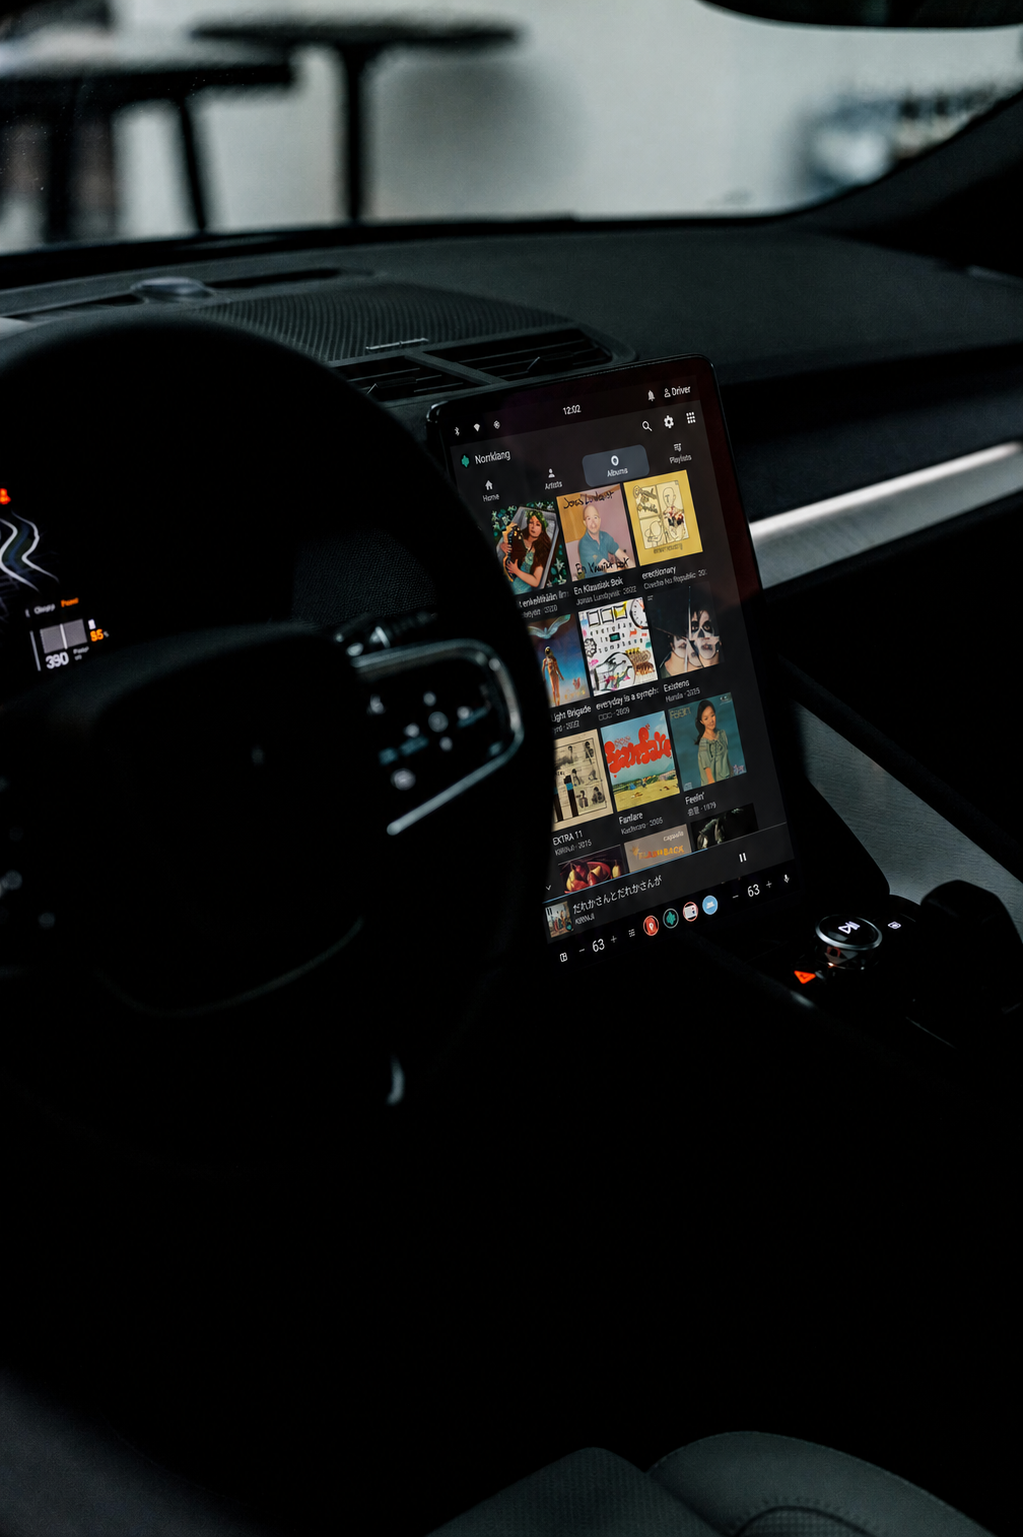
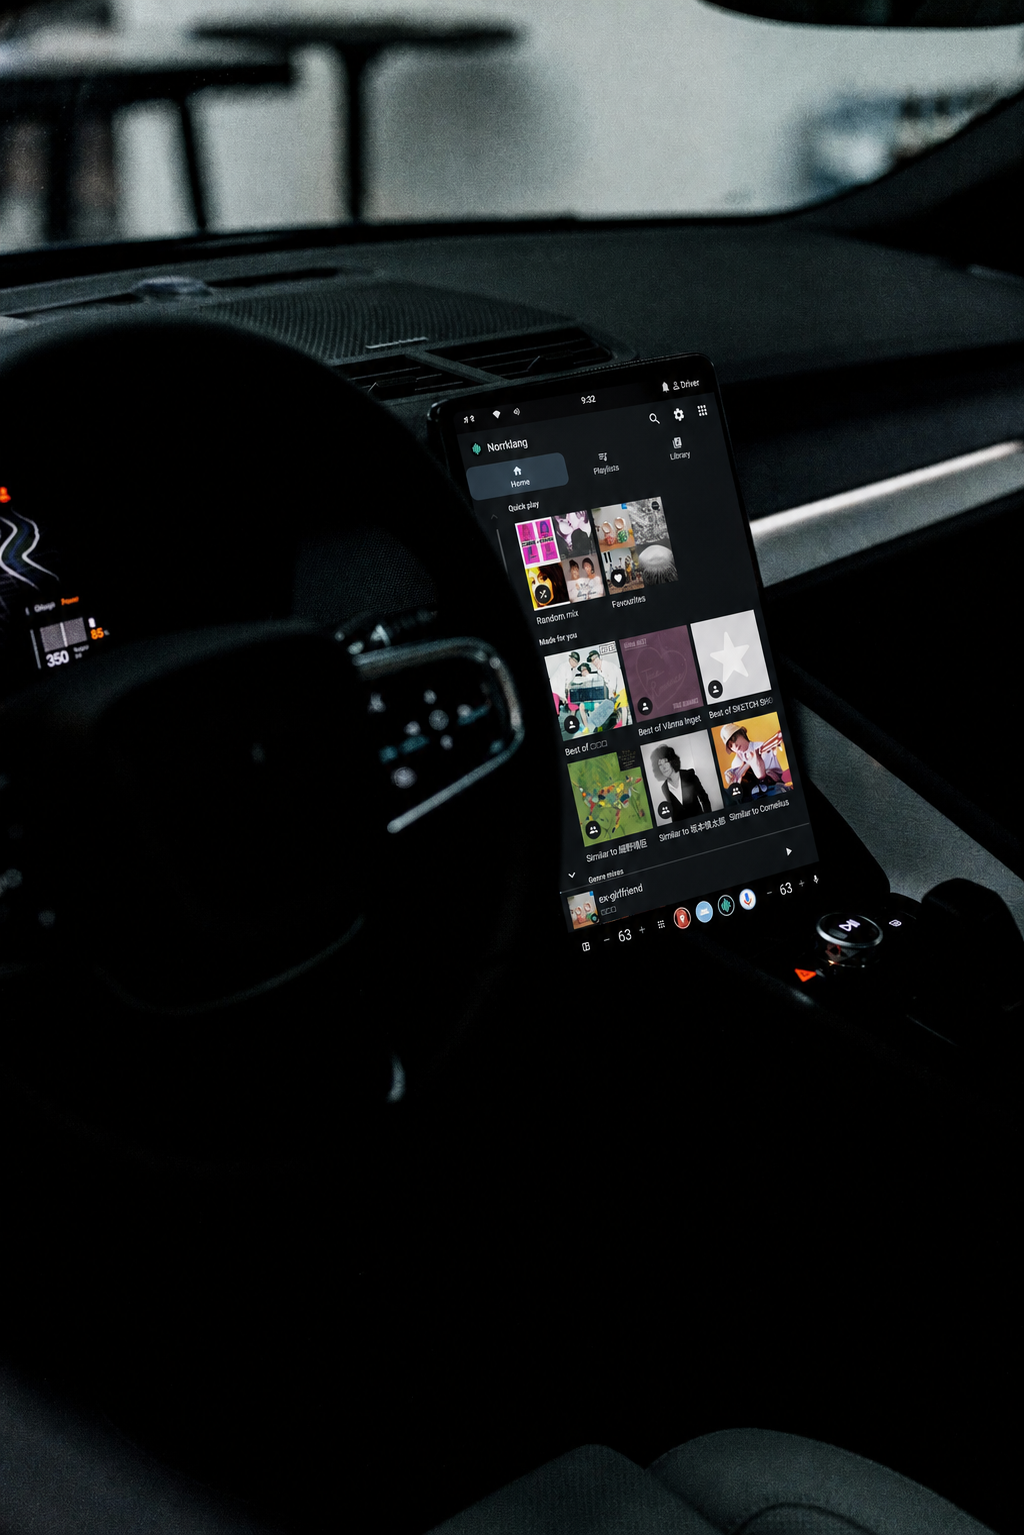
feat: added website info about plex support and updated privacy policy

diff --git a/www/src/config.ts b/www/src/config.ts
@@ -4,9 +4,9 @@ export const SITE_NAME = 'Norrklang';
 export const SITE_URL = 'https://norrklang.app';
 export const TAGLINE = 'Your Navidrome library, in your car';
 export const DESCRIPTION =
-  'Norrklang is a music player for Navidrome and Subsonic-compatible servers, ' +
-  'made for cars running Android Automotive OS. It installs in the car itself ' +
-  'and plays your own music, straight from your server.';
+  'Norrklang is a music player for Navidrome and Subsonic-compatible servers ' +
+  'and for Plex, made for cars running Android Automotive OS. It installs in ' +
+  'the car itself and plays your own music, straight from your server.';
 
 export const APPLICATION_ID = 'studio.koeda.norrklang';
 

diff --git a/www/src/pages/privacy.md b/www/src/pages/privacy.md
@@ -2,11 +2,12 @@
 layout: ../layouts/Legal.astro
 title: Privacy Policy
 description: What Norrklang stores, what it sends, and to whom. No analytics, no third parties.
-effectiveDate: 2026-08-06
+effectiveDate: 2026-08-21
 ---
 
 Norrklang is a music player for [Navidrome](https://www.navidrome.org/) and
-Subsonic-compatible servers, published by Koeda Studio for Android Automotive
+Subsonic-compatible servers and for [Plex](https://www.plex.tv/) Media Server,
+published by Koeda Studio for Android Automotive
 OS. It is a client for a server **you** choose and control. This policy
 describes what the app itself does with data, plus how this website is
 hosted.
@@ -15,12 +16,14 @@ hosted.
 
 All data the app stores stays **on your device**:
 
-- **Server connection details** — the server address, your username, and a
-  derived authentication token (never your password; the password is used once
-  at sign-in to compute the token and is not retained). The token is encrypted
-  with a key that never leaves the device's Android Keystore, so the stored
-  value is useless anywhere else. The app also opts out of Android's automatic
-  backup, so none of its data is copied into cloud backups.
+- **Server connection details** — the server address, your username, and an
+  authentication token. For Navidrome/Subsonic the token is derived from your
+  password once at sign-in (the password itself is never retained); for Plex
+  it is the token plex.tv issues when you link the device (the app never sees
+  your Plex password at all). Either token is encrypted with a key that never
+  leaves the device's Android Keystore, so the stored value is useless
+  anywhere else. The app also opts out of Android's automatic backup, so none
+  of its data is copied into cloud backups.
 - **Playback state** — the last played track and position, so playback can
   resume after a restart.
 - **Your settings** — whether scrobbling is on, any artists or playlists you
@@ -29,18 +32,42 @@ All data the app stores stays **on your device**:
   per account. Listings are held in memory only and disappear when the app
   stops; cached cover art is stored in the app's cache area and deleted when a
   different account signs in.
+- **Diagnostics** — a short log of recent errors and the last crash, shown on
+  the in-car **Settings → Diagnostics** screen to help you report problems.
+  Entries are sanitized before they are written: server addresses and URL
+  query strings — which can carry authentication tokens — are stripped. The
+  log never leaves the device on its own (see below for the report flow).
 
 Signing out deletes the stored connection details, your settings and the
-playback state. Uninstalling the app deletes everything.
+playback state. One exception: the random device identifier the app mints for
+Plex is kept, so that linking again does not register a duplicate device on
+your Plex account — it identifies the install, not you, and it leaves with the
+app. Uninstalling the app deletes everything.
 
 ## What the app sends, and to whom
 
-The app communicates **only with the server address you configure**:
+The app communicates **with the server you configure** — and with nothing
+else, apart from the plex.tv exception below:
 
 - browsing and search queries, to show your library
 - audio streaming requests, to play music
 - playback reports ("scrobbles"), so your server can track play counts
 - favourite updates you trigger (e.g. the heart button in the car)
+
+If you sign in with Plex, the app also talks to **plex.tv**, Plex's own
+service: at sign-in to link the device, and to list your servers and their
+connection addresses. Your music library, streaming and play reports still go
+only to your own Plex Media Server. Plex's handling of that service traffic is
+governed by [Plex's privacy policy](https://www.plex.tv/about/privacy-legal/),
+not this one.
+
+The **Diagnostics** screen can show a QR code that lets you share the
+sanitized log when reporting a problem. The car uploads nothing: the log is
+encoded into the link itself (in the URL fragment, which browsers do not send
+to any server), and the page at norrklang.app/report decodes it locally on
+your phone. The report reaches the developers only if you then choose to
+submit the pre-filled GitHub issue, under
+[GitHub's privacy policy](https://docs.github.com/en/site-policy/privacy-policies/github-privacy-statement).
 
 Norrklang has **no analytics, no advertising, no crash reporting, and no
 third-party services** — the app bundles no Google or other third-party
